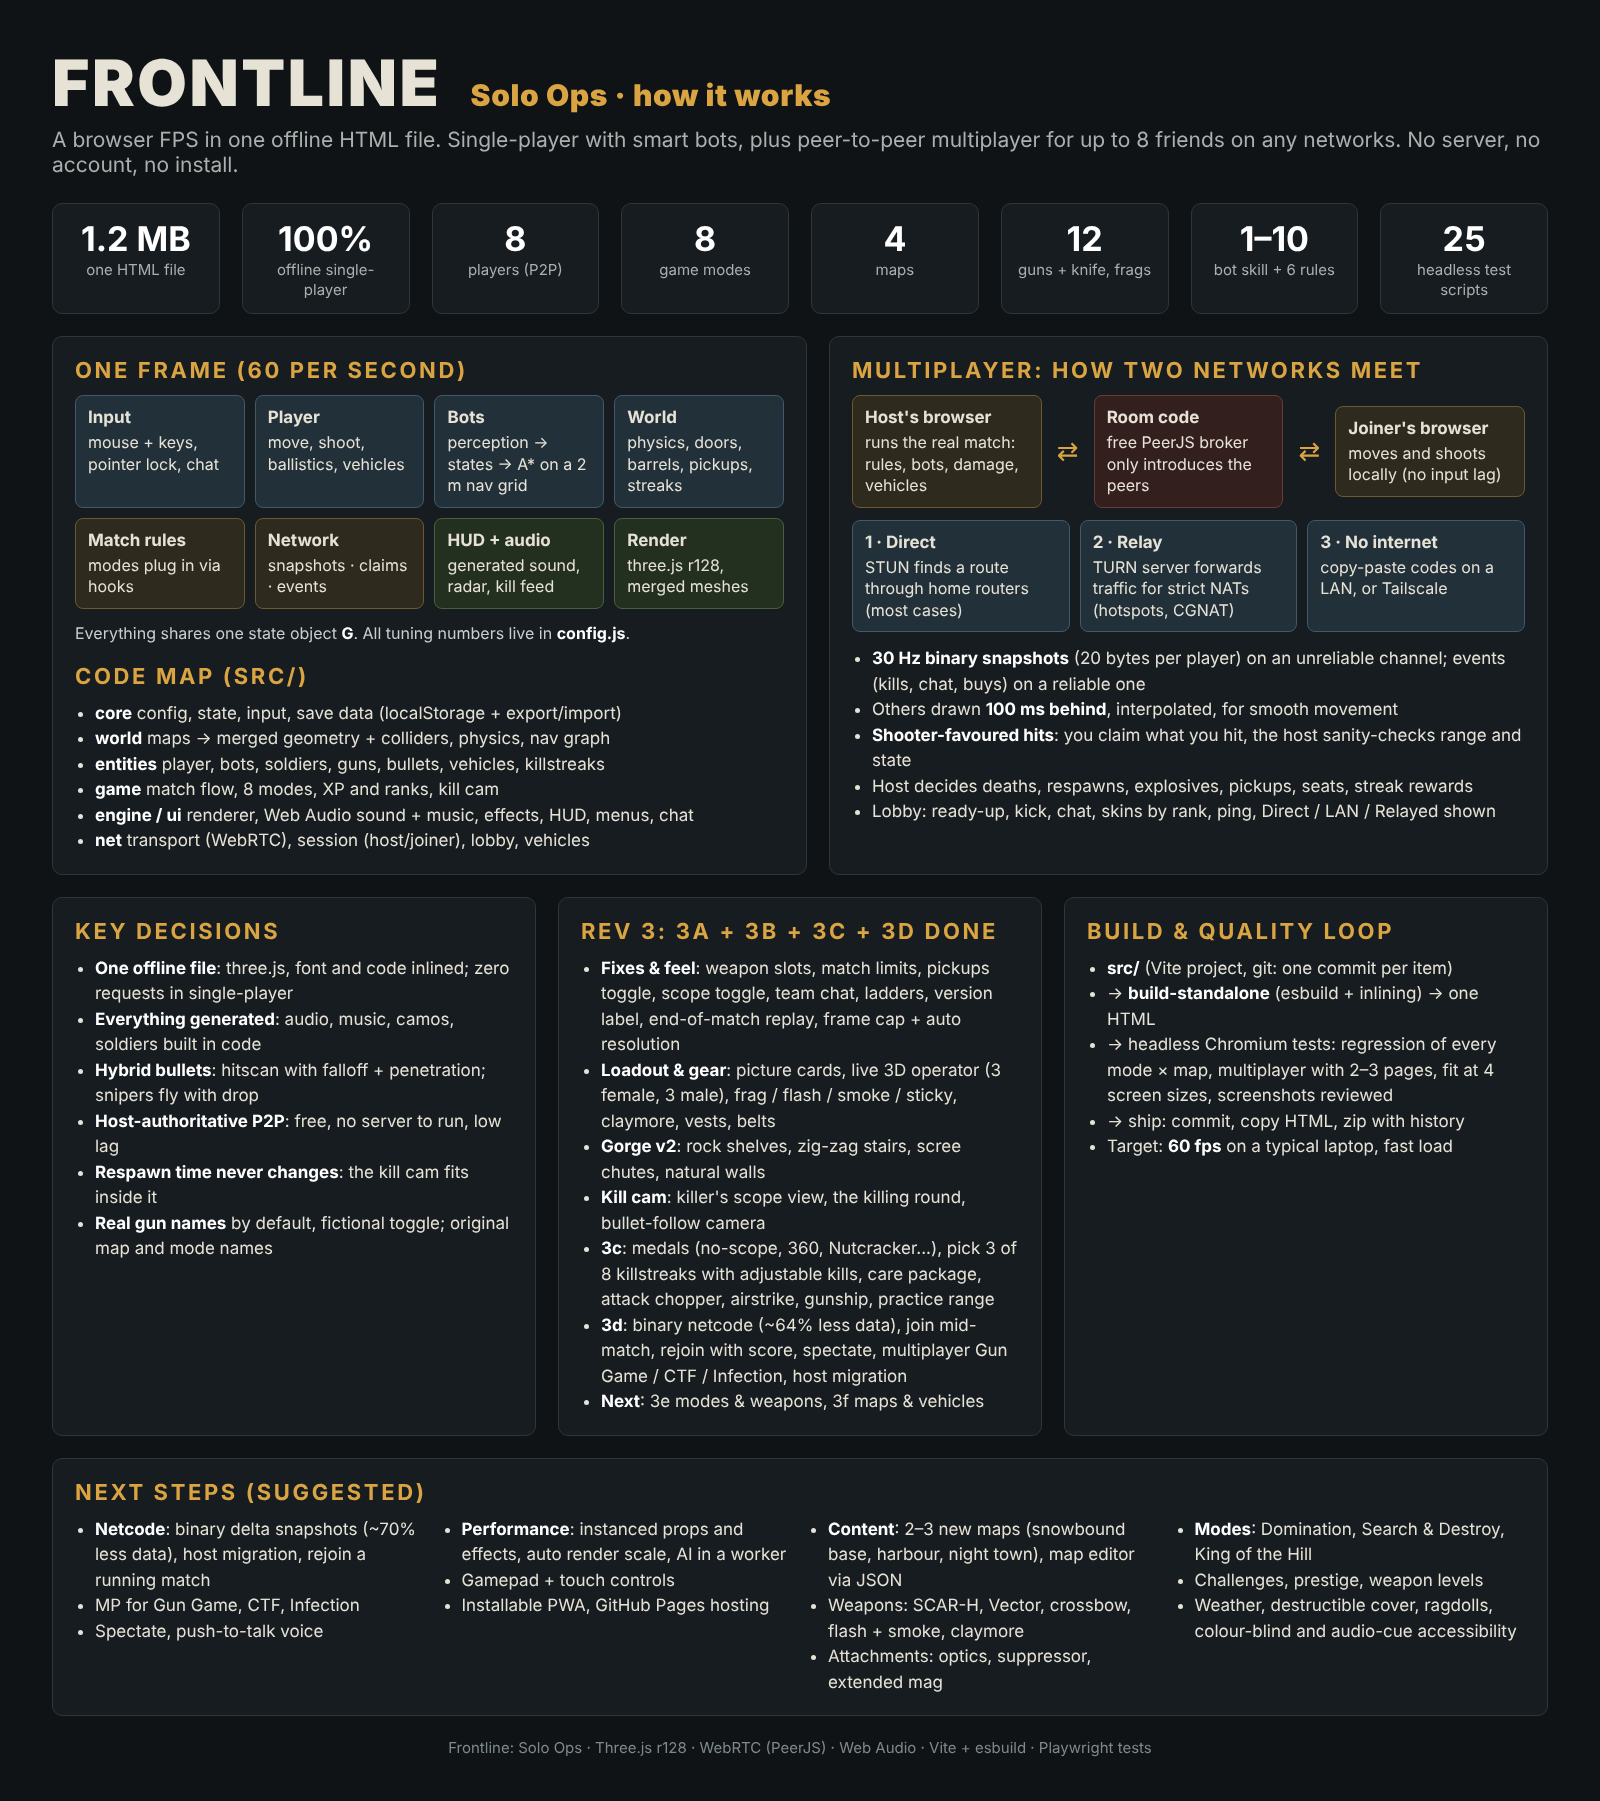
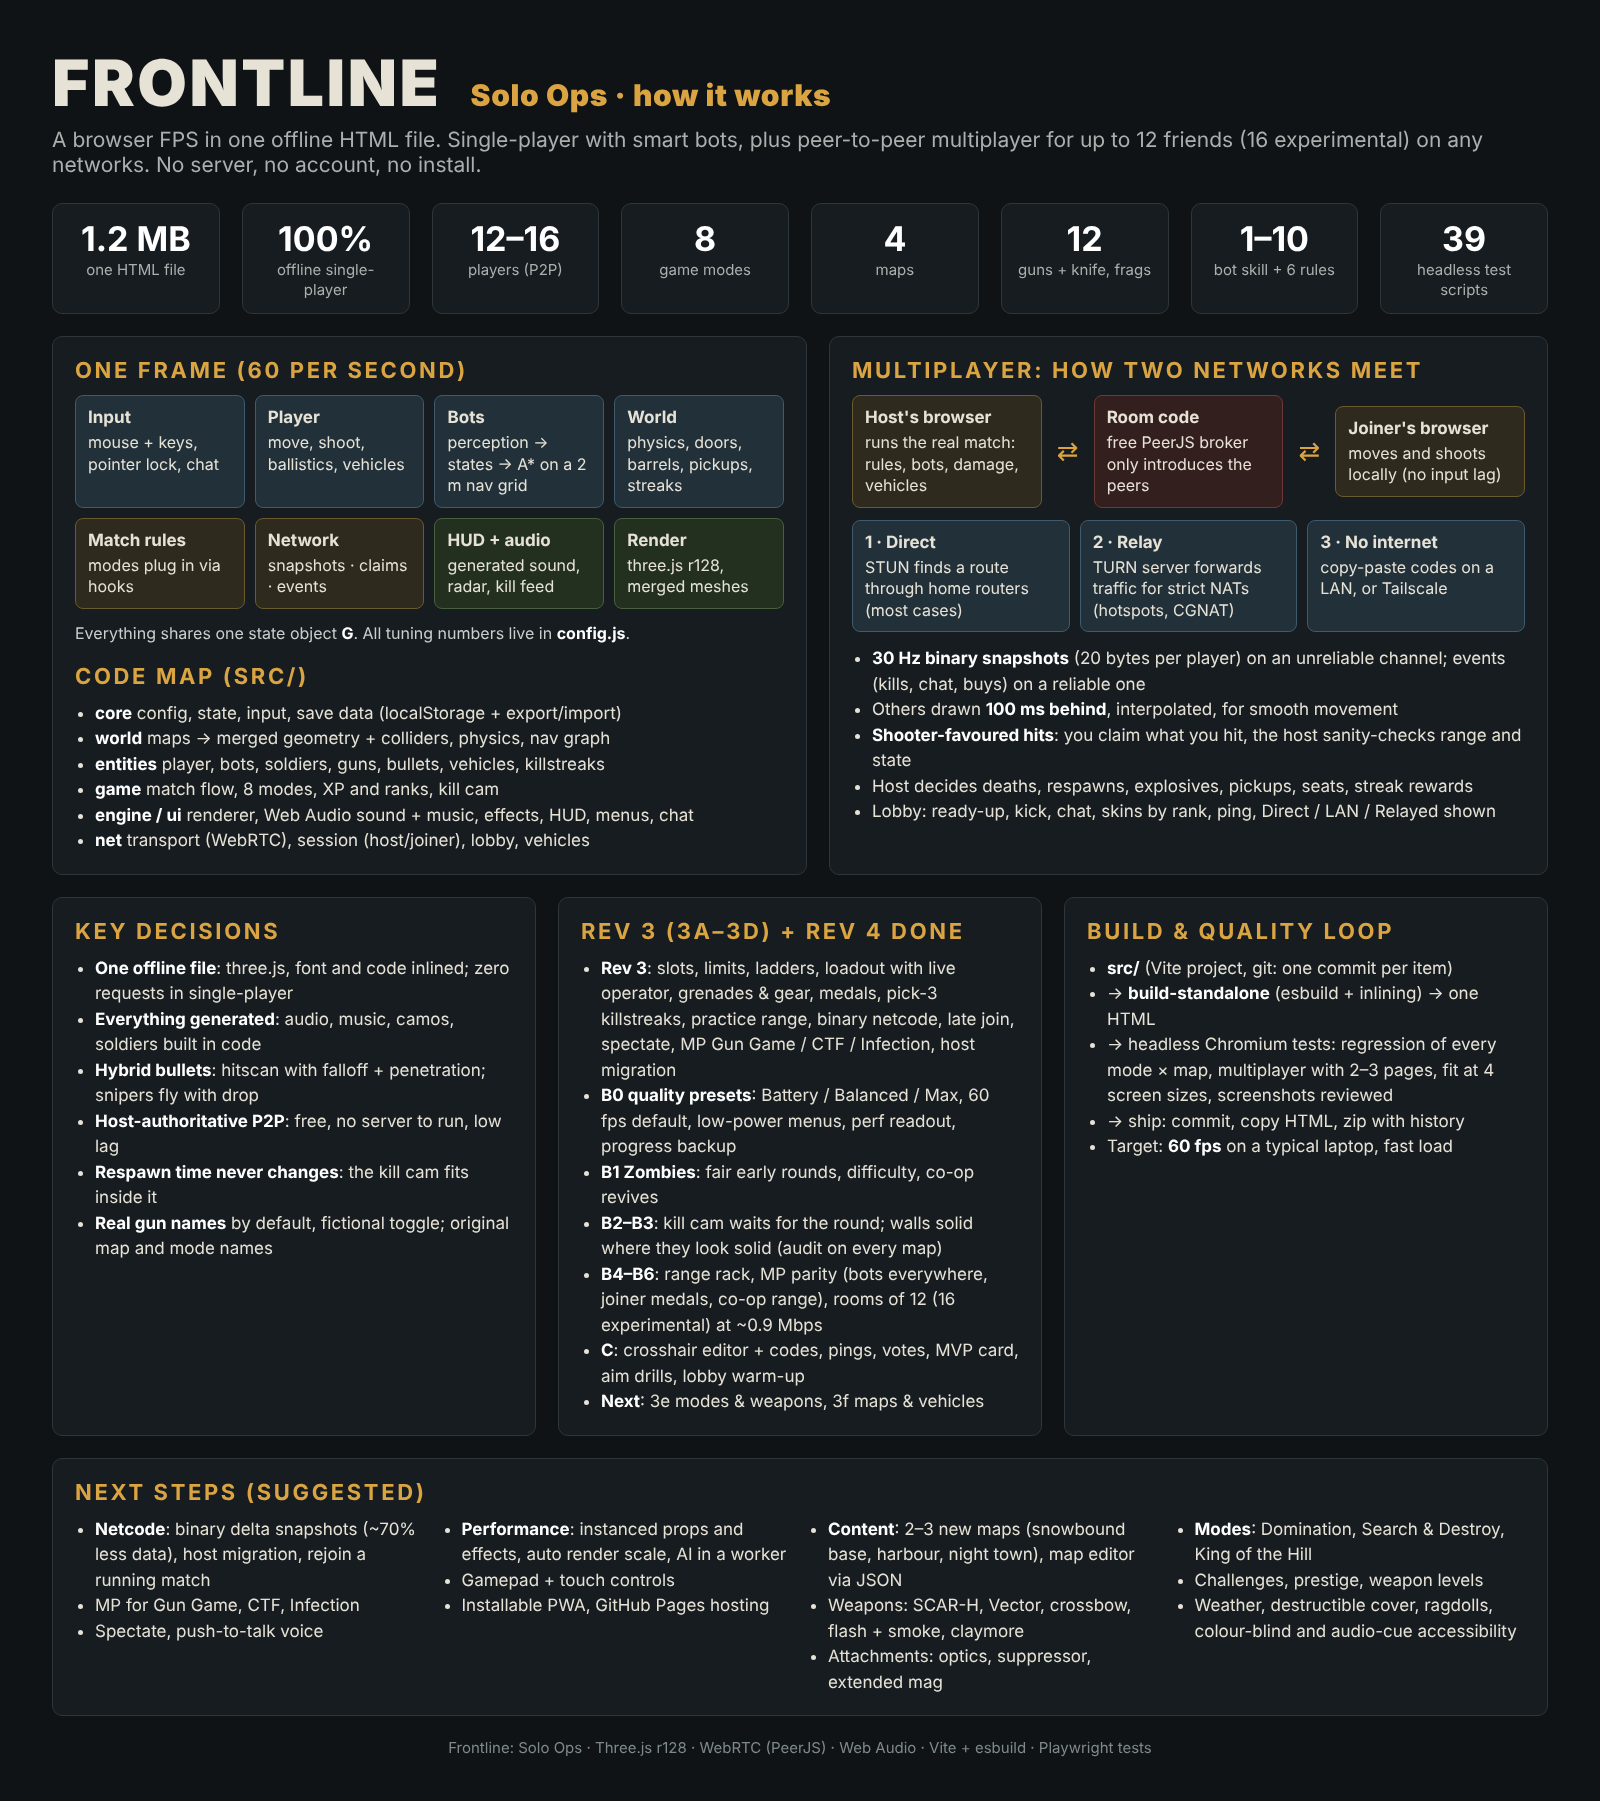
Docs: milestone (Rev 4 B0-B6 + C): one-pager and infographic

diff --git a/docs/overview.html b/docs/overview.html
@@ -12,10 +12,10 @@
 .foot{margin-top:22px;color:#7f8a87;font-size:15px;text-align:center}
 </style></head><body><div class="w">
 <h1>FRONTLINE <span>Solo Ops · how it works</span></h1>
-<div class="sub">A browser FPS in one offline HTML file. Single-player with smart bots, plus peer-to-peer multiplayer for up to 8 friends on any networks. No server, no account, no install.</div>
+<div class="sub">A browser FPS in one offline HTML file. Single-player with smart bots, plus peer-to-peer multiplayer for up to 12 friends (16 experimental) on any networks. No server, no account, no install.</div>
 <div class="g stats">
-<div class="st"><b>1.2 MB</b><small>one HTML file</small></div><div class="st"><b>100%</b><small>offline single-player</small></div><div class="st"><b>8</b><small>players (P2P)</small></div><div class="st"><b>8</b><small>game modes</small></div>
-<div class="st"><b>4</b><small>maps</small></div><div class="st"><b>12</b><small>guns + knife, frags</small></div><div class="st"><b>1–10</b><small>bot skill + 6 rules</small></div><div class="st"><b>25</b><small>headless test scripts</small></div></div>
+<div class="st"><b>1.2 MB</b><small>one HTML file</small></div><div class="st"><b>100%</b><small>offline single-player</small></div><div class="st"><b>12–16</b><small>players (P2P)</small></div><div class="st"><b>8</b><small>game modes</small></div>
+<div class="st"><b>4</b><small>maps</small></div><div class="st"><b>12</b><small>guns + knife, frags</small></div><div class="st"><b>1–10</b><small>bot skill + 6 rules</small></div><div class="st"><b>39</b><small>headless test scripts</small></div></div>
 <div class="g" style="grid-template-columns:1.05fr 1fr">
 <div class="c"><h2>One frame (60 per second)</h2>
 <div class="g" style="grid-template-columns:repeat(4,1fr);gap:10px">
@@ -39,7 +39,7 @@
 <div class="g" style="grid-template-columns:1fr 1fr 1fr;margin-top:22px">
 <div class="c"><h2>Key decisions</h2><ul><li><b>One offline file</b>: three.js, font and code inlined; zero requests in single-player</li><li><b>Everything generated</b>: audio, music, camos, soldiers built in code</li>
 <li><b>Hybrid bullets</b>: hitscan with falloff + penetration; snipers fly with drop</li><li><b>Host-authoritative P2P</b>: free, no server to run, low lag</li><li><b>Respawn time never changes</b>: the kill cam fits inside it</li><li><b>Real gun names</b> by default, fictional toggle; original map and mode names</li></ul></div>
-<div class="c"><h2>Rev 3: 3a + 3b + 3c + 3d done</h2><ul><li><b>Fixes &amp; feel</b>: weapon slots, match limits, pickups toggle, scope toggle, team chat, ladders, version label, end-of-match replay, frame cap + auto resolution</li><li><b>Loadout &amp; gear</b>: picture cards, live 3D operator (3 female, 3 male), frag / flash / smoke / sticky, claymore, vests, belts</li><li><b>Gorge v2</b>: rock shelves, zig-zag stairs, scree chutes, natural walls</li><li><b>Kill cam</b>: killer's scope view, the killing round, bullet-follow camera</li><li><b>3c</b>: medals (no-scope, 360, Nutcracker...), pick 3 of 8 killstreaks with adjustable kills, care package, attack chopper, airstrike, gunship, practice range</li><li><b>3d</b>: binary netcode (~64% less data), join mid-match, rejoin with score, spectate, multiplayer Gun Game / CTF / Infection, host migration</li><li><b>Next</b>: 3e modes &amp; weapons, 3f maps &amp; vehicles</li></ul></div>
+<div class="c"><h2>Rev 3 (3a–3d) + Rev 4 done</h2><ul><li><b>Rev 3</b>: slots, limits, ladders, loadout with live operator, grenades &amp; gear, medals, pick-3 killstreaks, practice range, binary netcode, late join, spectate, MP Gun Game / CTF / Infection, host migration</li><li><b>B0 quality presets</b>: Battery / Balanced / Max, 60 fps default, low-power menus, perf readout, progress backup</li><li><b>B1 Zombies</b>: fair early rounds, difficulty, co-op revives</li><li><b>B2–B3</b>: kill cam waits for the round; walls solid where they look solid (audit on every map)</li><li><b>B4–B6</b>: range rack, MP parity (bots everywhere, joiner medals, co-op range), rooms of 12 (16 experimental) at ~0.9 Mbps</li><li><b>C</b>: crosshair editor + codes, pings, votes, MVP card, aim drills, lobby warm-up</li><li><b>Next</b>: 3e modes &amp; weapons, 3f maps &amp; vehicles</li></ul></div>
 <div class="c"><h2>Build &amp; quality loop</h2><ul><li><b>src/</b> (Vite project, git: one commit per item)</li><li>→ <b>build-standalone</b> (esbuild + inlining) → one HTML</li><li>→ headless Chromium tests: regression of every mode × map, multiplayer with 2–3 pages, fit at 4 screen sizes, screenshots reviewed</li>
 <li>→ ship: commit, copy HTML, zip with history</li><li>Target: <b>60 fps</b> on a typical laptop, fast load</li></ul></div></div>
 <div class="c" style="margin-top:22px"><h2>Next steps (suggested)</h2><div class="g" style="grid-template-columns:repeat(4,1fr);gap:16px">

diff --git a/docs/ONE_PAGER.md b/docs/ONE_PAGER.md
@@ -41,7 +41,7 @@ A browser FPS delivered as one self-contained HTML file (~1.2 MB): three.js r128
 **Done (3d, multiplayer netcode):** binary 30 Hz traffic (~64% less snapshot data), join a running match, rejoin keeps your score, spectator mode, multiplayer Gun Game / Capture the Flag / Infection, host migration (room-code games).
 **Left in Rev 3:** 3e Domination, Search & Destroy, King of the Hill; SCAR-H, Vector, crossbow, power weapons (rocket launcher, grenade launcher, rail gun), attachments · 3f batched drawing, bots' pathfinding in a worker, snowbound radar base, harbour, night Atomic Acres, Kestrel flyer, ATV, map editor.
 
-## Rev 4 status (milestone: B0–B6 done)
+## Rev 4 status (milestone: B0–B6 + C done)
 - **B0 performance & quality:** presets Battery saver / Balanced (default) / Max / Custom, 60 fps default (raise to 120/144/Display), low-power menus (30 fps), sharpness, shadows, effects settings, perf readout, battery prompt, persistent storage + backup reminder.
 - **B1 Zombies:** fair early rounds (slower than your sprint until ~round 14, softer claws with hit grace, smaller swarms), Easy/Normal/Hard/Nightmare, co-op revives (hold E).
 - **B2 kill cam:** the victim stays up until the killing round lands, then falls.
@@ -49,7 +49,8 @@ A browser FPS delivered as one self-contained HTML file (~1.2 MB): three.js r128
 - **B5 range rack:** carry any number of guns in the practice range.
 - **B4 multiplayer parity:** bot counts in Gun Game/CTF/Infection, full medals for joiners, co-op practice range.
 - **B6 bigger rooms:** 12 players (16 experimental), interest management, 20 Hz above 8 players; measured 0.86 Mbps host upload at 12 players.
-- **Next:** crosshair editor, warm-up deathmatch, votes, MVP card, aim drills, ping wheel; then 3e and 3f. Out of scope by choice: anything with money/buying, voice chat. Later: accounts.
+- **C (Valorant/CS-inspired):** crosshair editor + share codes, pings (H), chat votes (/votekick, /surrender), MVP card, range aim drills (flick, tracking), lobby warm-up.
+- **Next:** 3e (Domination, S&D, King of the Hill; SCAR-H, Vector, crossbow; power weapons; attachments), then 3f. Out of scope by choice: anything with money/buying, voice chat. Later: accounts.
 
 ## Roadmap: suggested improvements
 **Multiplayer and netcode**
